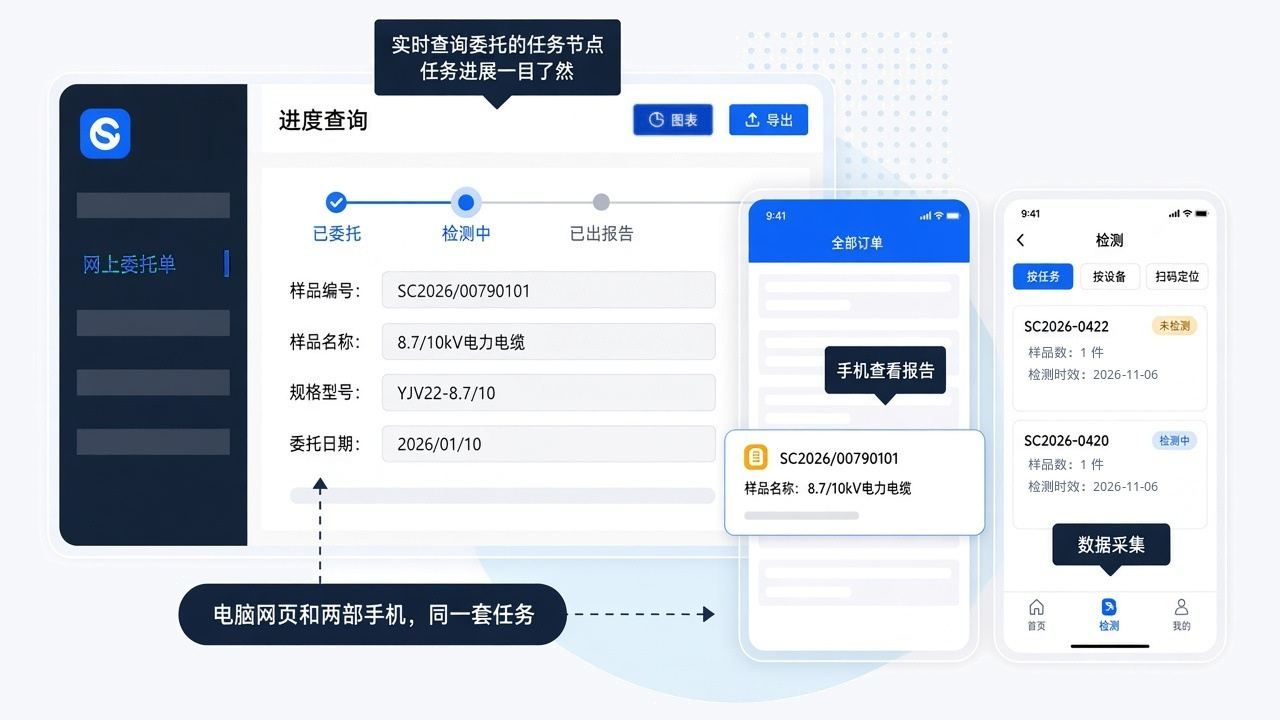
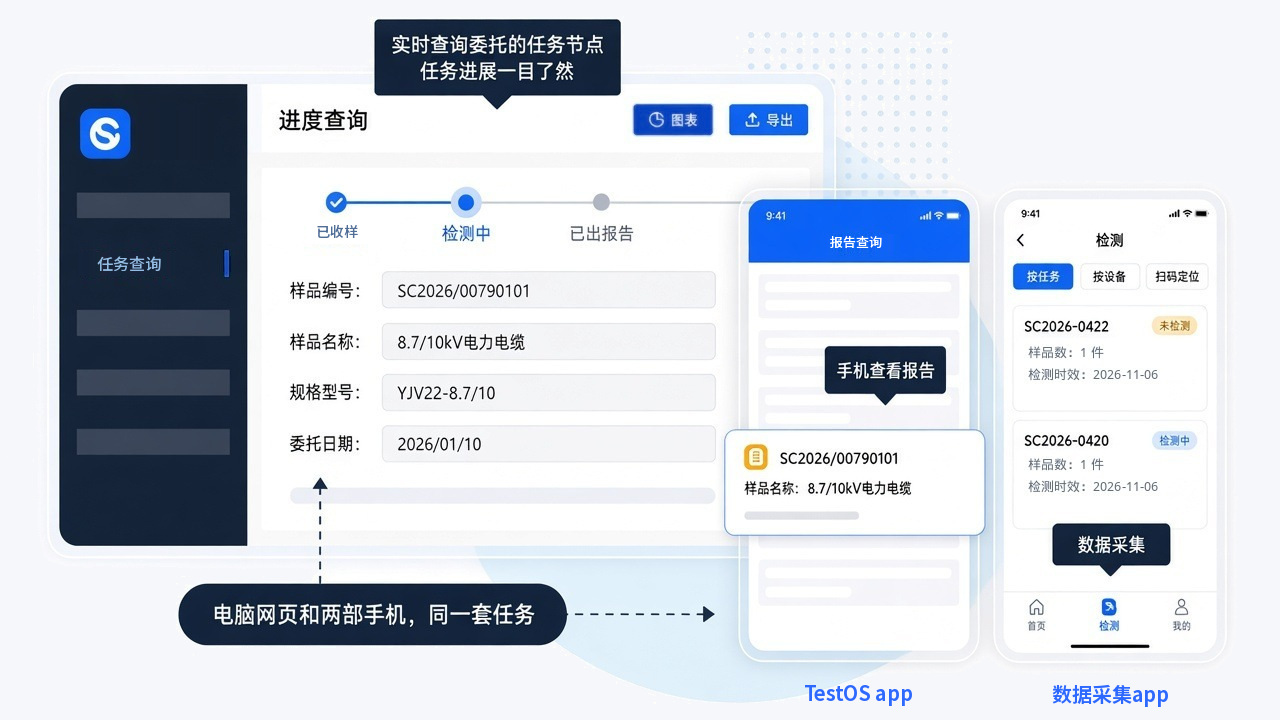
fix: 优势8配图改成任务查询、已收样，并标注两个 App

diff --git a/shucan-lims-brochure.html b/shucan-lims-brochure.html
@@ -465,7 +465,7 @@
             </ul>
           </div>
           <div class="visual">
-            <img class="illu" src="assets/brochure/17-pc-mobile.jpg?v=bg" alt="电脑网页查询电缆委托进度，一部手机查看报告，另一部手机做数据采集" />
+            <img class="illu" src="assets/brochure/17-pc-mobile.jpg?v=names" alt="电脑网页任务查询，进度为已收样、检测中和已出报告。左边手机是 TestOS app 的报告查询，右边是数据采集 app" />
           </div>
         </article>
       </div>
